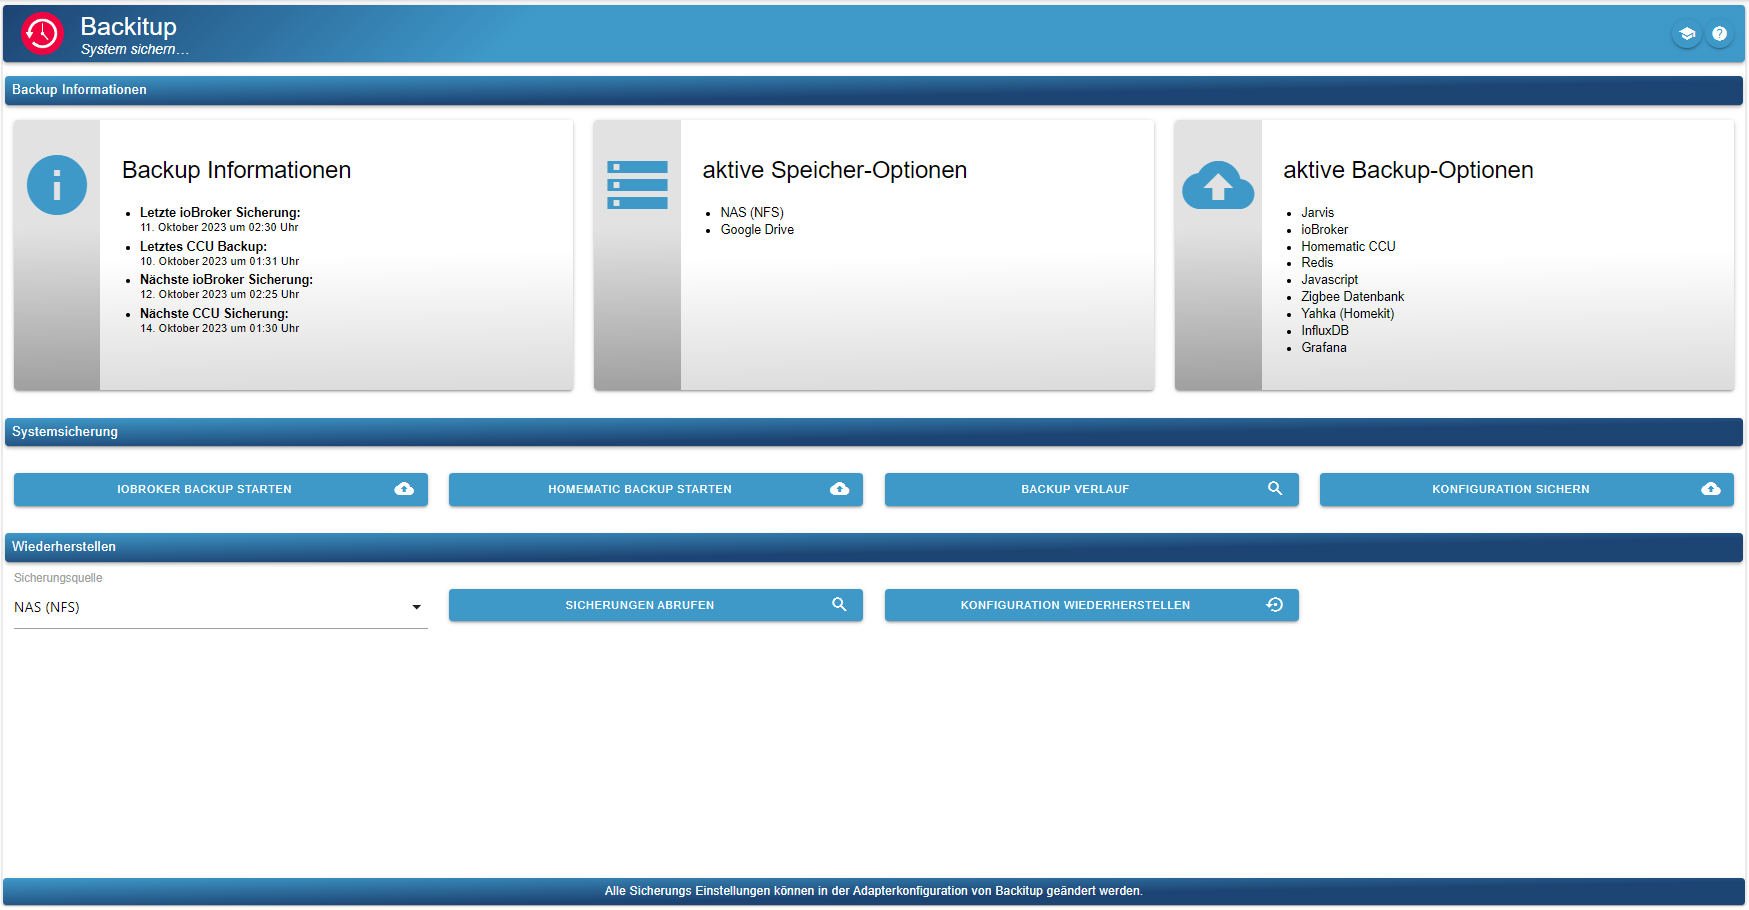
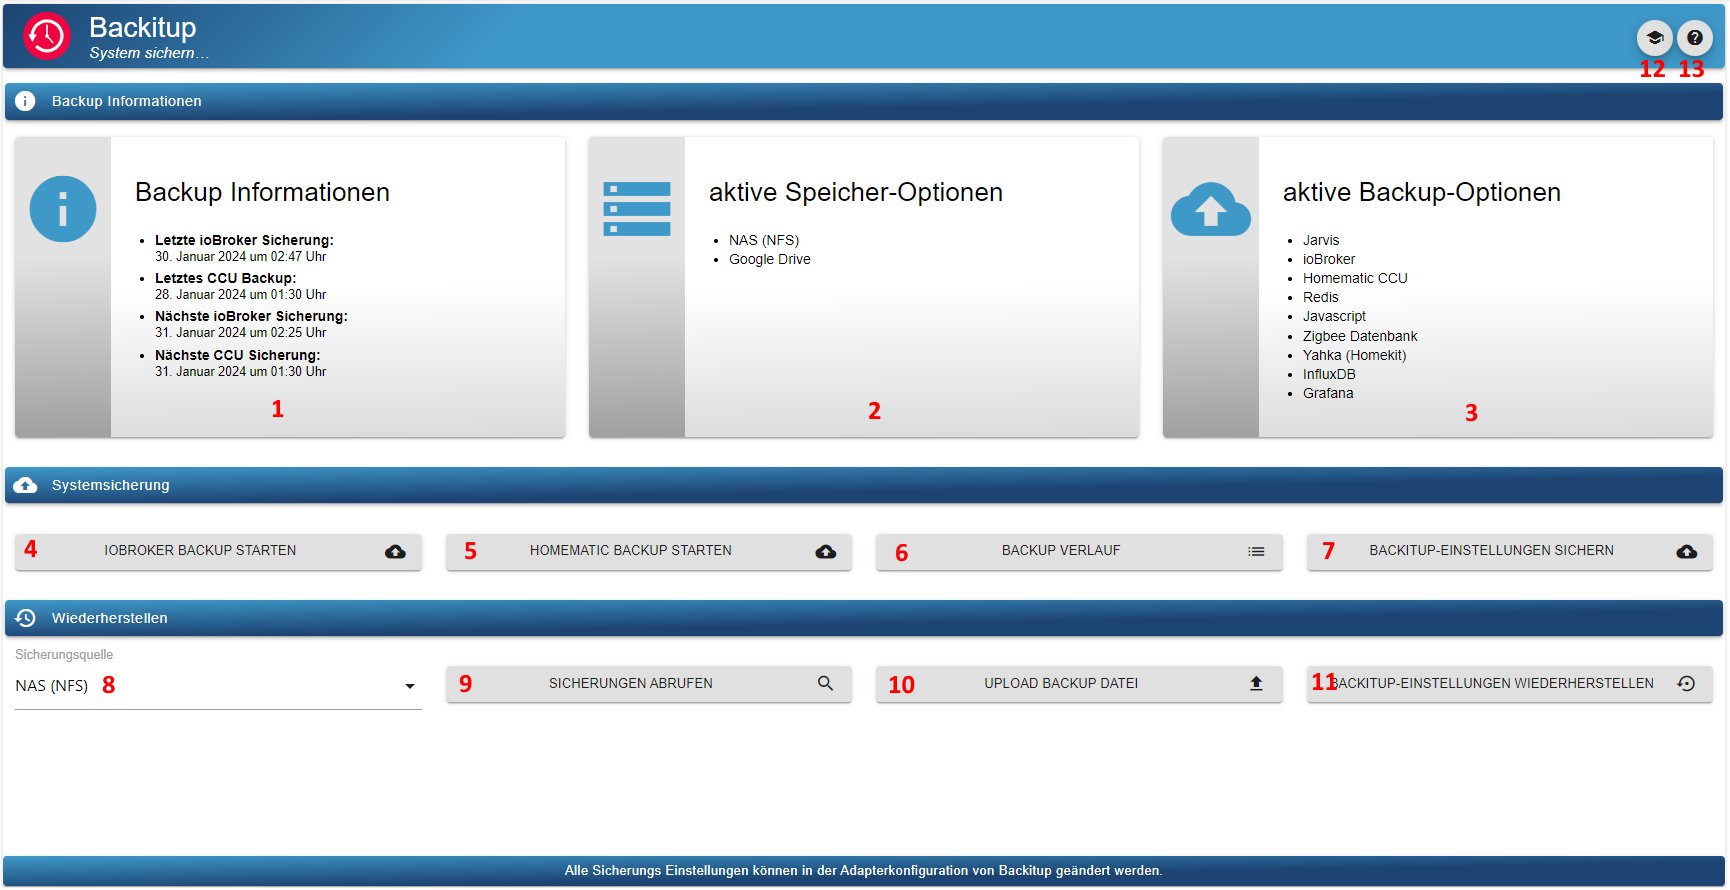
(simatec) Beta 2.10.8

diff --git a/docs/de/backitup.md b/docs/de/backitup.md
@@ -87,7 +87,34 @@ Ist dieser Reiter im Tab-Menü der Admin-Oberfläche aktiv, kann ioBroker.backit
 Dort stehen Informationen zu den erstellten Backups zur Verfügung, es können Backups erstellt werden und es besteht die Möglichkeit, einen Restore des Backups auszuführen.
 
 ![adminTab](img/backitup_main.png)
+
+Hier eine kurze Erklärung der Optionen im Tab Menü
+
+1. Informationen zum letzten und nächsten Backup.
+2. Informationen, wo die Backups gespeichert werden.
+3. Informationen, welche Backuptypen aktiv sind und gesichert werden.
+4. Ein iobroker Backup manuell starten.
+5. Ein Homematic Backup manuell starten.
+6. Öffnet ein neues Fenster und zeigt alle Backups aus dem Verlauf an.
+7. Mit diesem Button kann man die Settings von ioBroker.backitup sichern. Dies ist bei einem Systemwechsel ein nützliches Hilfsmittel. Die Settings werden im JSON Format ausgegeben.
+8. In dieser Option wählt man den Speicher, aus dem der Restore ausgeführt werden soll.
+9. Mit dem Button "Sicherungen abrufen" öffnet sich ein neues Fenster und listet alle vorhanden Backups in dem gewählten Speicher auf.
+10. Möchte man ein Backup von einem anderen System wiederherstellen, kann die Backupdatei über diesen Button auf das System hochgeladen werden.
+11. Dieser Button dient dazu, die gespeicherten ioBroker.Backitup Settings innerhalb des Adapter wiederherzustellen. Es ist kein Restore des ioBrokers und hier können nur Dateien im JSON Format hochgeladen werden!
+12. Öffnet ein neuen Tab und zeigt die Dokumentation von ioBroker.backitup an.
+13. Öffnet ein neuen Tab und zeigt die Readme von ioBroker.backitup an.
+
+
 ![adminTabRestore](img/backitup_restore.png)
+
+Die Bedienung des Restore Tabs sieht wie folgt aus.
+
+1. Download des gewählten Backups auf den PC.
+2. Start des Restore des gewählten Backups.
+3. Informationen zum Backup.
+4. Informationen zum Backuptyp.
+
+
 ![adminTabInfo](img/backitup_history.png)
 
 _[Zurück zum Anfang](#start-of-content)_
@@ -259,6 +286,12 @@ Optional kann man aktivieren/deaktivieren, ob die Backups vom NAS gelöscht werd
 Sollte kein CIFS-Mount möglich sein, besteht eine weitere Möglichkeit der Copy-Funktion.<br>
 Hier muss in den CIFS-Einstellungen die Pfadangabe eingetragen werden, wo hin kopiert werden soll.<br>
 Die Angabe der IP Adresse muss für die Copy-Funktion leer bleiben.
+
+## Experten Mount
+Im Bereich Experte besteht die Möglichkeit einen eigenen Mount-Befehl zu erstellen, welchen der Adapter dann für ein Backup und einen Restore verwendet.
+Hier kann man individuell arbeiten und z.B. die fstab oder auch credentials einbinden.
+
+>:grey_exclamation: Bitte beachtet, dass diese Option nur für Experten gedacht ist. :grey_exclamation:
   
 ## Dropbox
 Um die Sicherung in der Dropbox zu nutzen, muss man einen Access Token holen. Das kann man auf der Konfigurationsseite von ioBroker.backitup machen.<br>

diff --git a/docs/en/backitup.md b/docs/en/backitup.md
@@ -92,7 +92,34 @@ If this tab is active in the tab menu of the admin interface, ioBroker.backitup 
 Information on the backups made is available there, backups can be made and the backup can be restored.
 
 ![adminTab](img/backitup_main.png)
+
+Here is a brief explanation of the options in the Menu tab
+
+1. information on the last and next backup.
+2. information on where the backups are stored.
+3. information on which backup types are active and being backed up.
+4. start an iobroker backup manually.
+5. start a Homematic backup manually.
+6. opens a new window and displays all backups from the history.
+7. with this button you can save the settings of ioBroker.backitup. This is a useful tool when changing systems. The settings are output in JSON format.
+8. in this option you select the memory from which the restore is to be executed.
+9. click on the "Retrieve backups" button to open a new window and list all existing backups in the selected memory.
+10. if you want to restore a backup from another system, the backup file can be uploaded to the system using this button.
+11. this button is used to restore the saved ioBroker.backitup settings within the adapter. It is not a restore of the ioBroker and only files in JSON format can be uploaded here!
+12. opens a new tab and shows the documentation of ioBroker.backitup.
+13. opens a new tab and shows the readme of ioBroker.backitup.
+
+
 ![adminTabRestore](img/backitup_restore.png)
+
+The operation of the Restore tab is as follows.
+
+1. download the selected backup to the PC.
+2. start the restore of the selected backup.
+3. information about the backup.
+4. information on the backup type.
+
+
 ![adminTabInfo](img/backitup_history.png)
 
 _[Back to top](#start-of-content)_
@@ -266,7 +293,13 @@ You can optionally activate / deactivate whether the backups should be deleted f
 If a CIFS mount is not possible, there is another possibility of the copy function.<br>
 Here in the CIFS settings the path must be entered where the copy is to be made.<br>
 The specification of the IP address must remain empty for the copy function.
-  
+
+## Expert Mount
+In the Expert area, it is possible to create your own mount command, which the adapter then uses for a backup and a restore.
+Here you can work individually and, for example, integrate the fstab or credentials.
+
+>grey_exclamation: Please note that this option is only intended for experts. :grey_exclamation:
+
 ## Dropbox
 In order to use the backup in Dropbox, you have to get an access token. This can be done on the ioBroker.backitup configuration page.<br>
 ioBroker only accesses the defined areas. No tokens or user data are stored in the cloud.

diff --git a/README.md b/README.md
@@ -53,6 +53,11 @@ When the adapter crashes or another Code error happens, this error message that 
 
 ## Changelog
 <!-- ### **WORK IN PROGRESS** -->
+### **WORK IN PROGRESS**
+* (simatec) Fix Expert Mount
+* (simatec) Docu updated
+* (simatec) dependencies updated
+
 ### 2.10.7 (2024-01-29)
 * (simatec) small fixes
 * (simatec) small Design Fix
